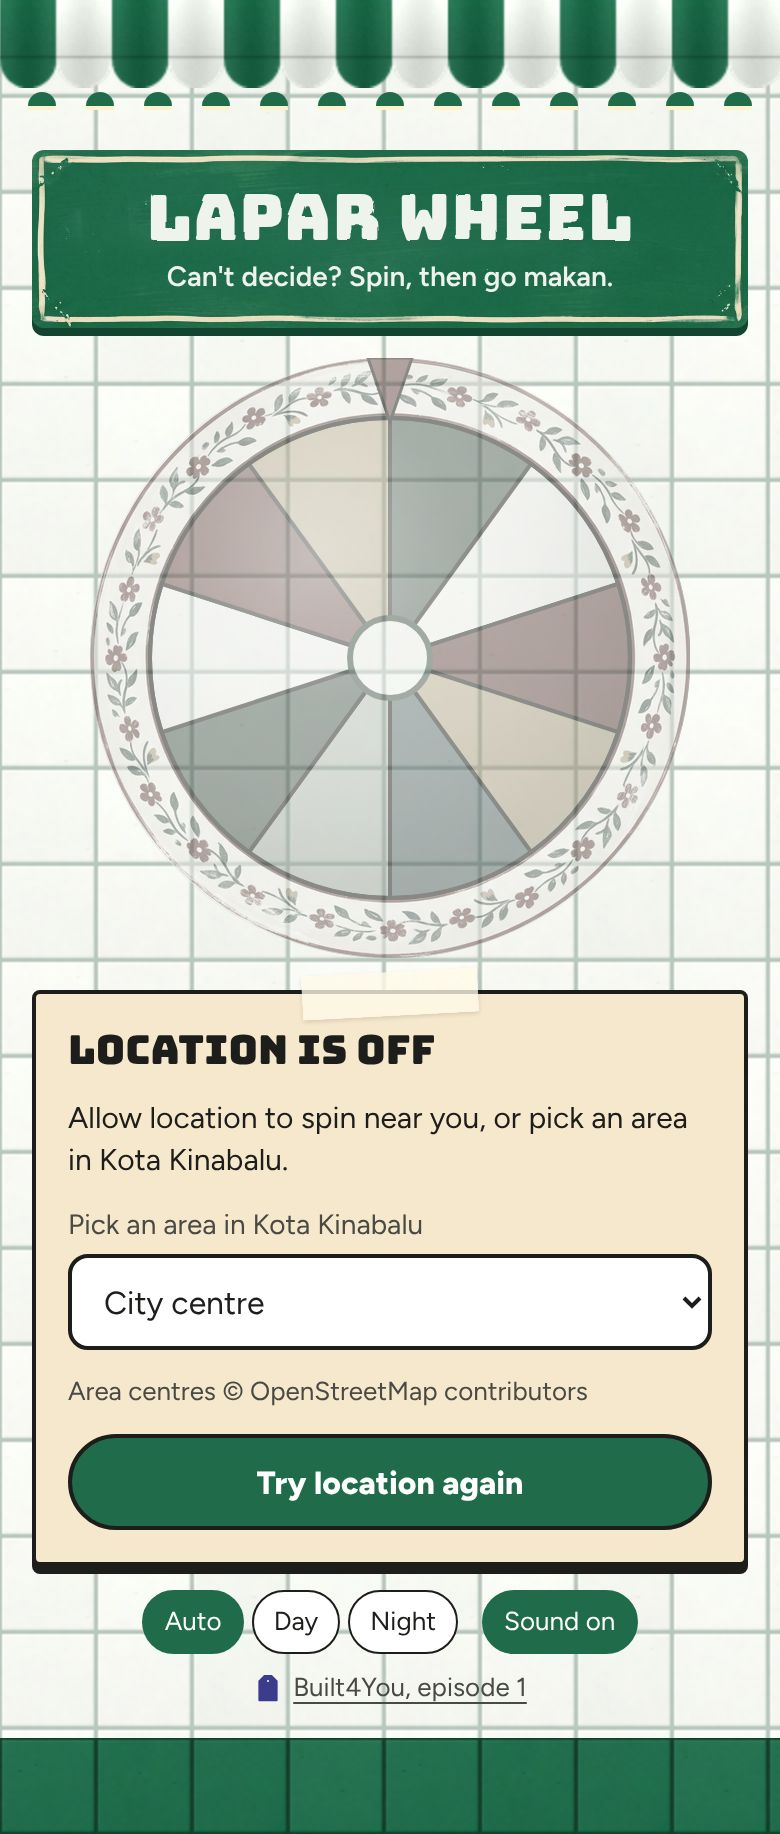
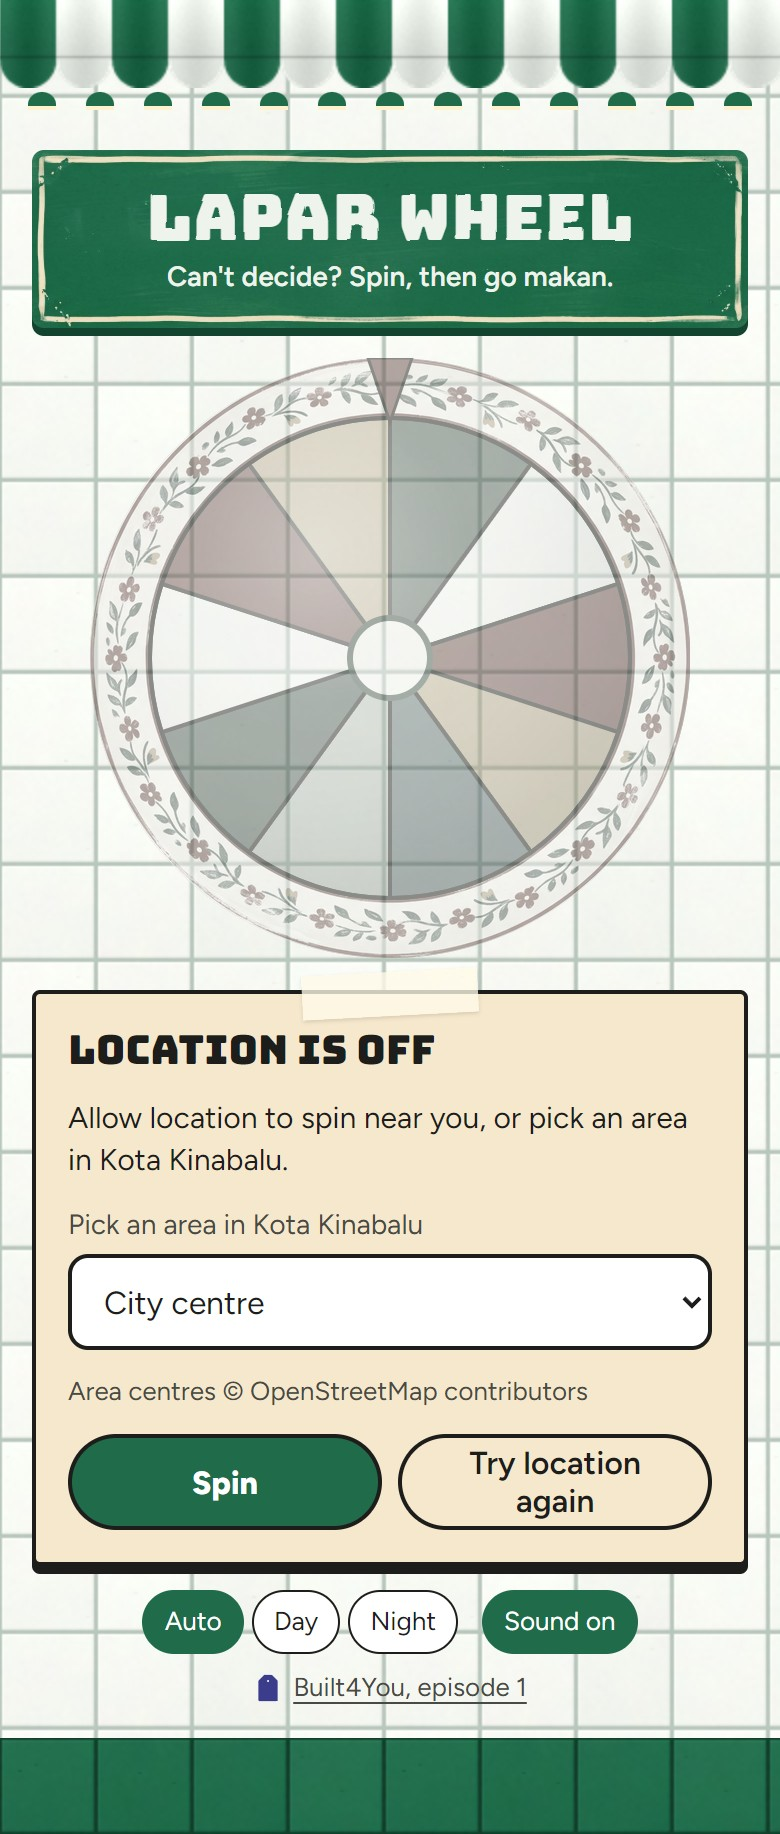
Write down the notice decisions from review
Refused shows Spin beside Try location again when the area picker is up; the
main action's button is Figtree 800; Change filters keeps a 44px tap area; the
reset time follows the device's 12- or 24-hour clock. The reference mock and
its refused screenshots now match.

diff --git a/docs/redesign/reference.html b/docs/redesign/reference.html
@@ -225,7 +225,7 @@ switch (state) {
     break;
   case "refused":
     faded = true;
-    middle = notice({ head: "Location is off", body: "Allow location to spin near you, or pick an area in Kota Kinabalu.", buttons: ["Try location again"],
+    middle = notice({ head: "Location is off", body: "Allow location to spin near you, or pick an area in Kota Kinabalu.", buttons: ["Spin", "Try location again"],
       extra: `<label class="field"><span>Pick an area in Kota Kinabalu</span><select class="select"><option>City centre</option><option>Likas</option><option>Inanam</option></select></label><p class="osm">Area centres © OpenStreetMap contributors</p>` });
     break;
   case "sheet":

diff --git a/docs/redesign.md b/docs/redesign.md
@@ -60,7 +60,7 @@ Self-hosted, never from Google Fonts (that would send visitors' IPs to Google): 
 | Body | Figtree 400 | 16 / 22 |
 | Subtitle, small print | Figtree 600 / 400 | 14 / 20, 13 / 18 |
 | Kicker ("Go makan at") | Figtree 800 | 15 / 20 |
-| Buttons | Figtree 600, Open in Maps 800 | 16 |
+| Buttons | Figtree 600; the main action 800 (Open in Maps, a notice's first button, Done) | 16 |
 
 Bungee only has capitals, so only these display roles use it. Labels and buttons stay in sentence case.
 
@@ -131,16 +131,16 @@ It fades to `saturate(0.2)` at 0.5 opacity, since it has nothing to land on. Whe
 
 | Case | Picture | Kicker | Headline | Body | Buttons |
 |---|---|---|---|---|---|
-| Nothing open | Empty cup | The active filters only: "Within 2 km", plus the cuisine if set, plus "rated 4.0 and up" if on. For example, "Within 10 km, Japanese, rated 4.0 and up" | Nothing open nearby | None below 10 km. At 10 km: "That's as far as it goes. Loosen a filter to see more." | In this order, at most two: "Try [next] km", "Any cuisine" (if a cuisine is set), "Any rating" (if the rating switch is on). If none apply: "Find food in Google Maps". Under the buttons, a text button "Change filters" opens the sheet |
+| Nothing open | Empty cup | The active filters only: "Within 2 km", plus the cuisine if set, plus "rated 4.0 and up" if on. For example, "Within 10 km, Japanese, rated 4.0 and up" | Nothing open nearby | None below 10 km. At 10 km: "That's as far as it goes. Loosen a filter to see more." | In this order, at most two: "Try [next] km", "Any cuisine" (if a cuisine is set), "Any rating" (if the rating switch is on). If none apply: "Find food in Google Maps". Under the buttons, "Change filters", a text link with a 44px tall tap area, opens the sheet |
 | `daily_cap` | Day: shutter. Night: stall | The reset time (see below) | Out of spins for today | "Lapar Wheel has a daily limit so it stays free. Spins come back at 12 am Malaysia time." | "Find food in Google Maps" |
 | `ip_daily_cap` | As above | The reset time | You've used today's spins | "Everyone gets 30 a day. They come back at 12 am Malaysia time." | "Find food in Google Maps" |
 | `rate_limited` | None | None | Slow down | "Try again in a minute." | "Try again" |
 | Other errors | None | None | Something went wrong | None | "Try again" |
-| Location refused | None | None | Location is off | `refusedMessage`, then the area picker when allowed | "Try location again" |
+| Location refused | None | None | Location is off | `refusedMessage`, then the area picker when allowed | "Spin" (primary, only when the area picker shows), then "Try location again" |
 
 - "Try [next] km", "Any cuisine" and "Any rating" change that filter and spin at once, like the current "Try 5 km?" button. "Try again" spins again.
 - "Find food in Google Maps" opens `https://www.google.com/maps/search/?api=1&query=<cuisine> restaurants` (just "restaurants" when no cuisine is set) in a new tab. It's a plain link: no API call, nothing stored.
-- Reset time: work out the next 00:00 in Asia/Kuala_Lumpur as an instant. If the device's time zone has the same offset then, the kicker says "Back at midnight". Otherwise it says "Back at [h am/pm] your time", formatted with the device's locale, for example "Back at 5 pm your time". Put this in one pure function with tests across time zones, including one where it lands on the next calendar day.
+- Reset time: work out the next 00:00 in Asia/Kuala_Lumpur as an instant. If the device's time zone has the same offset then, the kicker says "Back at midnight". Otherwise it says the time in the device's locale: "Back at 5 pm your time" on 12-hour devices, "Back at 17:00 your time" on 24-hour ones. Put this in one pure function with tests across time zones, including one where it lands on the next calendar day.
 
 ## Motion
 
